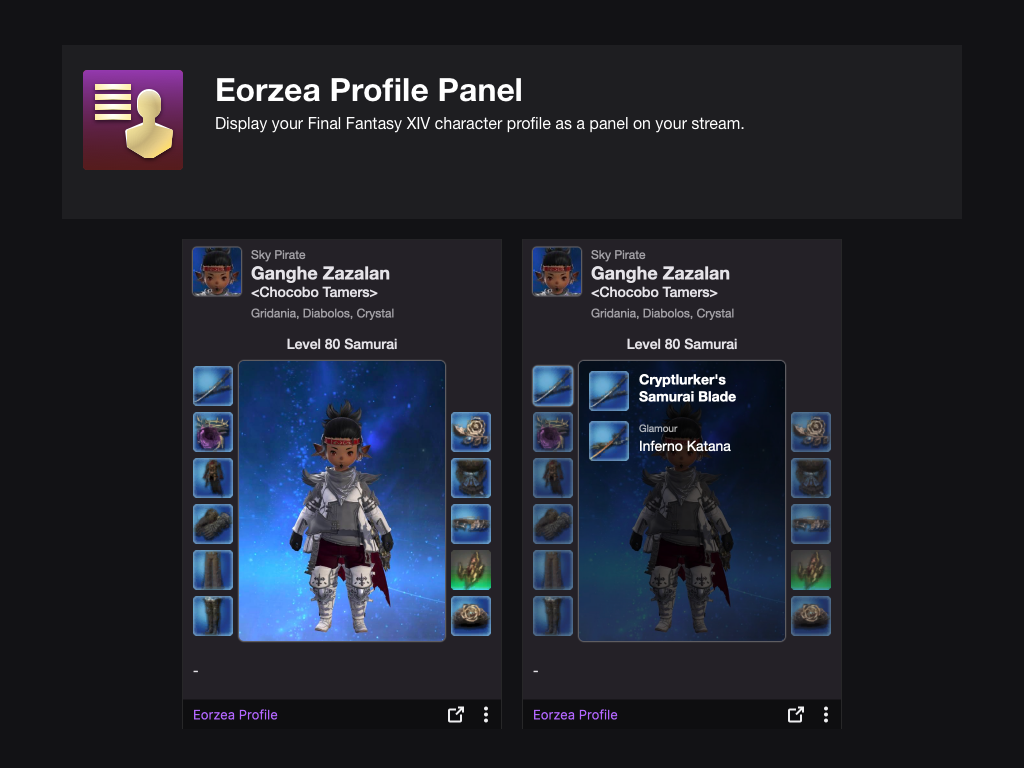
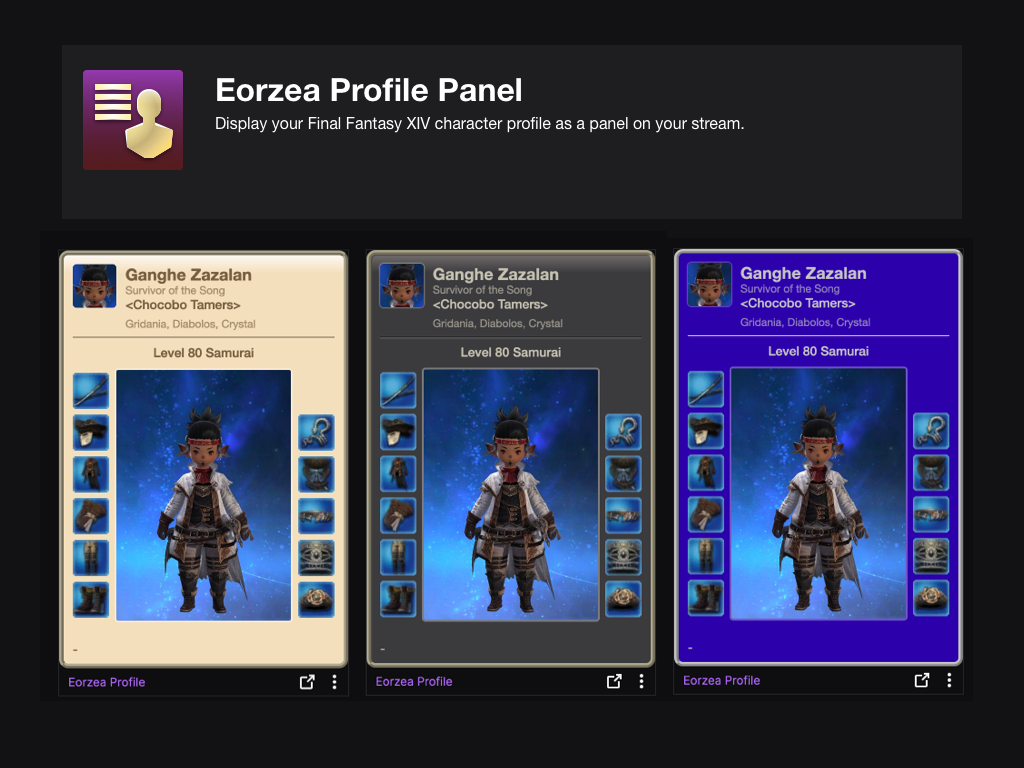
Updates readme and screenshots

diff --git a/src/components/App/App.js b/src/components/App/App.js
@@ -102,9 +102,6 @@ export default class App extends React.Component {
           { loadingCharacter && <div className='message'>Loading...</div> }
           { error && <div className='message'>Character not found</div> }
           { Character && <CharacterSheet Character={Character} /> }
-          { !error && !loadingCharacter && !Character && (
-            <div className='message'>No Character Profile</div>
-          )}
         </div>
       );
     }

diff --git a/README.md b/README.md
@@ -34,7 +34,7 @@ View Recent changes in the [Changelog](/CHANGELOG.md).
 
       > ![01](./public/images/onboarding-07.jpg)
 
-   2. Clicking on the **SAVE** button will fetch the Character Profile and confirm that it was able to find your character. You can now close this window and active the panel. Make sure to set it to an active panel to display your Final Fantasy XIV profile on your stream page.
+   2. Clicking on the **LOAD PROFILE** button will fetch the Character Profile and confirm that it was able to find your character. You can now close this window and active the panel. Make sure to set it to an active panel to display your Final Fantasy XIV profile on your stream page.
 
       > ![01](./public/images/onboarding-08.jpg)
 

diff --git a/CHANGELOG.md b/CHANGELOG.md
@@ -1,5 +1,11 @@
 # Changelog
 
+## v1.1.0 - Theme Selection
+
+- Adds selections for Light, Dark, and Classic themes
+- Loads character preview if `characterId` is set
+- Updates packages to most recent versions
+
 ## v1.0.1 - Bugfix for ConfigPage
 
 - Bugfix: ConfigPage getting stuck on a Loading state
